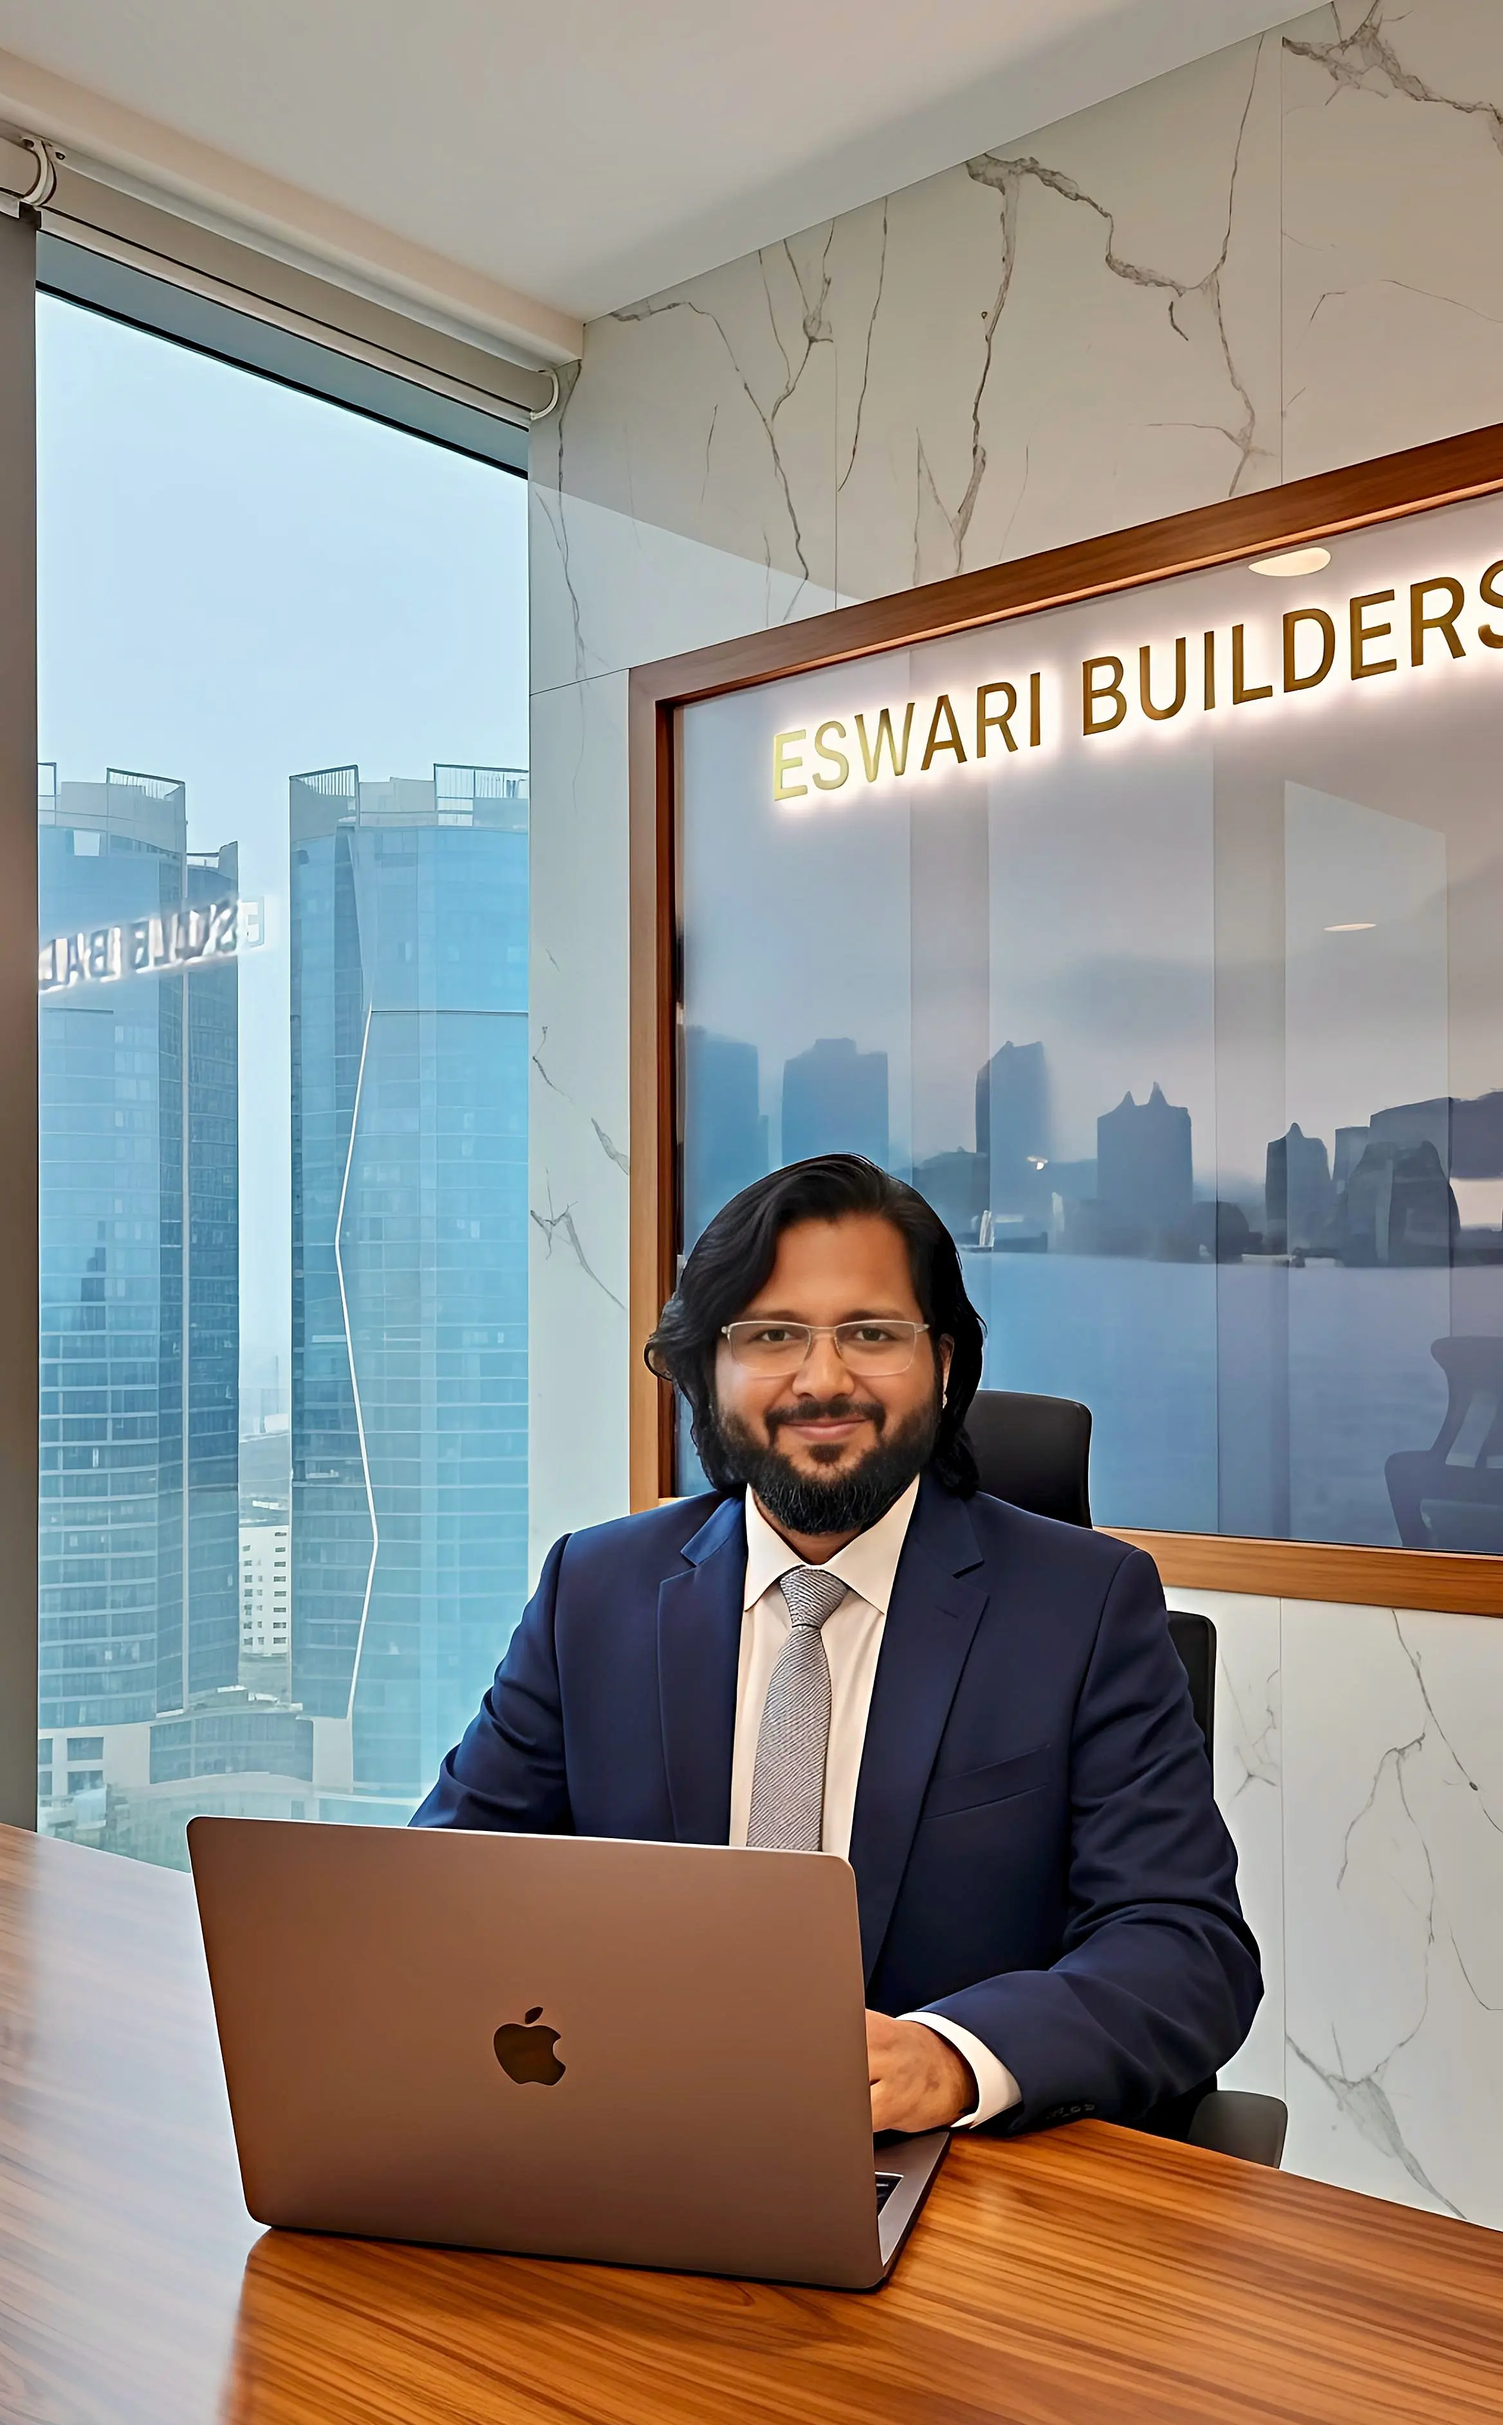
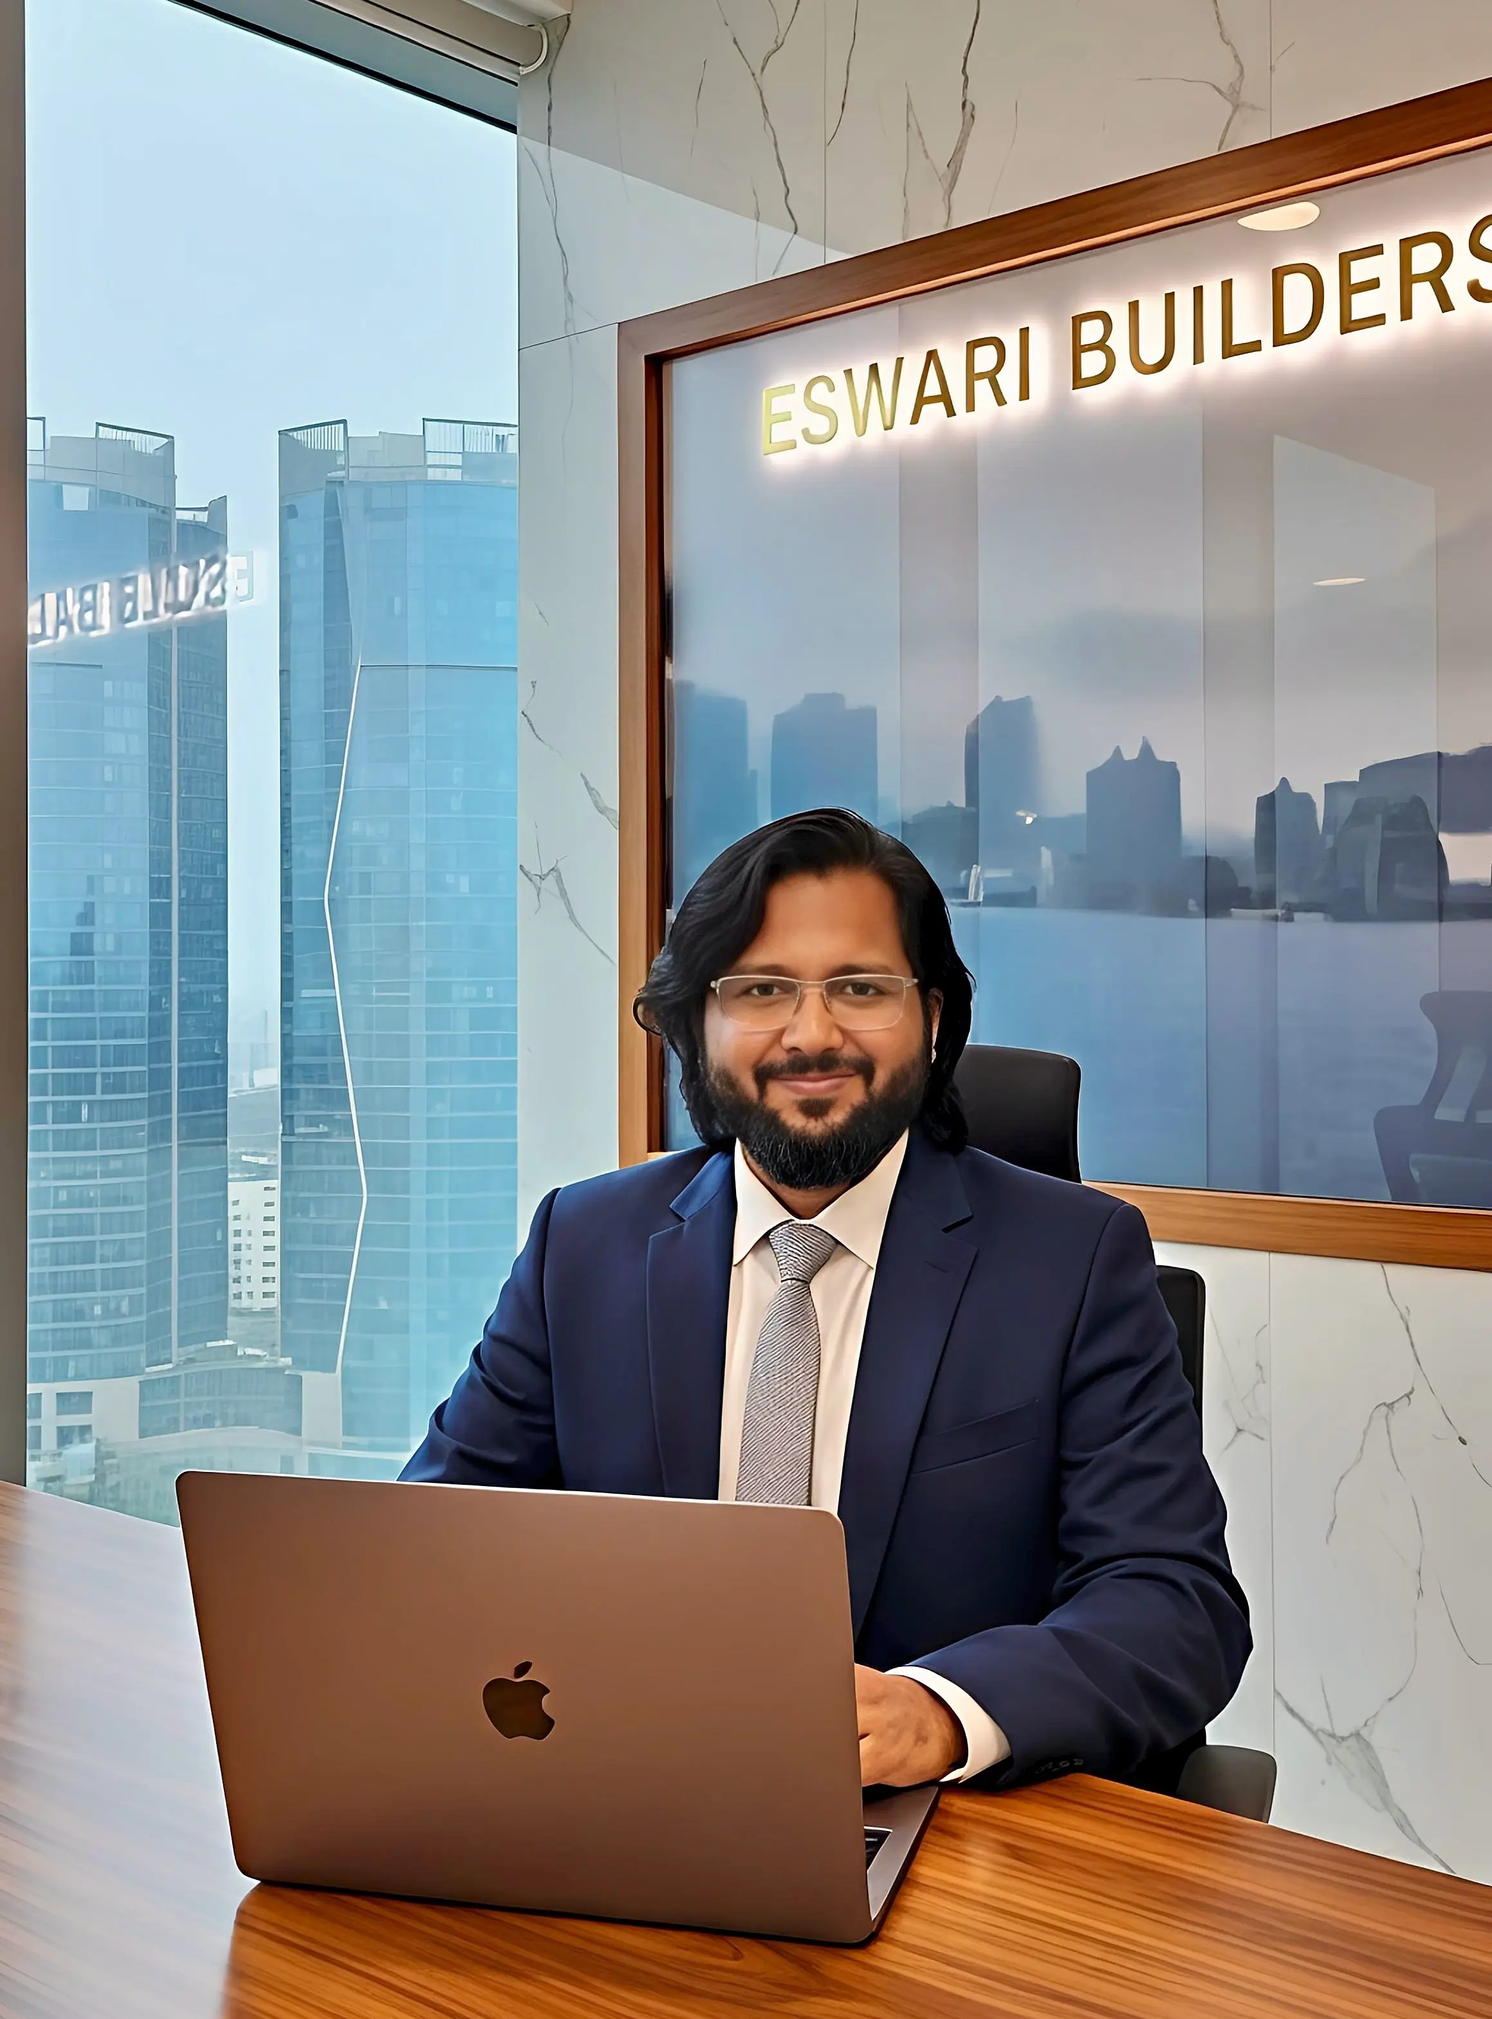
feat: added banking partners and founder image

diff --git a/app/page.tsx b/app/page.tsx
@@ -26,7 +26,8 @@ export default function Home() {
     priceRange: "₹₹",
     address: {
       "@type": "PostalAddress",
-      streetAddress: "112, Kamatchi Amman Kovil St, Heritage Town",
+      streetAddress:
+        "112, First Floor, Kamatchi Amman Koil Street, Heritage Town",
       addressLocality: "Pondicherry",
       addressRegion: "Puducherry",
       postalCode: "605001",
@@ -224,6 +225,156 @@ export default function Home() {
                 </p>
                 <p className="text-[#666] mt-0.5">Experience</p>
               </div>
+            </div>
+          </div>
+        </div>
+
+        {/* Bottom accent */}
+        <div className="absolute bottom-0 left-0 right-0 h-px bg-gradient-to-r from-transparent via-[#c8a97e] to-transparent opacity-40" />
+      </section>
+
+      {/* Banking Partners Section */}
+      <section className="relative bg-[#0a0a0a] py-24 overflow-hidden">
+        {/* Top accent */}
+        <div className="absolute top-0 left-0 right-0 h-px bg-gradient-to-r from-transparent via-[#c8a97e] to-transparent opacity-40" />
+
+        {/* Background text */}
+        <div
+          className="pointer-events-none absolute inset-0 flex items-center justify-center overflow-hidden select-none"
+          aria-hidden
+        >
+          <span
+            className="text-[10vw] font-light text-white/[0.02] leading-none tracking-widest uppercase whitespace-nowrap"
+            style={{ fontFamily: "'Playfair Display', serif" }}
+          >
+            Finance Support
+          </span>
+        </div>
+
+        <div className="relative container mx-auto px-6 max-w-7xl">
+          {/* Heading */}
+          <div className="text-center mb-16">
+            <div className="flex items-center justify-center gap-3 mb-6">
+              <div className="h-px w-10 bg-[#c8a97e]" />
+              <span
+                className="text-[#c8a97e] tracking-[0.25em] text-xs uppercase"
+                style={{ fontFamily: "'DM Sans', sans-serif" }}
+              >
+                Loan Assistance
+              </span>
+              <div className="h-px w-10 bg-[#c8a97e]" />
+            </div>
+
+            <h2
+              className="text-4xl md:text-6xl font-light text-white mb-6 leading-tight"
+              style={{ fontFamily: "'Playfair Display', serif" }}
+            >
+              Our Trusted
+              <span className="italic text-[#c8a97e]"> Banking Partners</span>
+            </h2>
+
+            <p
+              className="text-[#888] text-base md:text-lg max-w-3xl mx-auto leading-relaxed"
+              style={{ fontFamily: "'DM Sans', sans-serif" }}
+            >
+              Building your dream home should not be delayed because of
+              financing. We assist our clients in securing smooth home loan
+              approvals through trusted banking partners and NBFC housing
+              finance providers with complete support throughout the process.
+            </p>
+          </div>
+
+          {/* Bank Grid */}
+          <div className="grid grid-cols-2 md:grid-cols-3 lg:grid-cols-4 gap-6 mb-14">
+            {[
+              {
+                name: "ICICI Bank",
+                subtitle: "Housing Loan",
+                logo: "/banks/icici.webp",
+              },
+              {
+                name: "HDFC Bank",
+                subtitle: "Housing Loan",
+                logo: "/banks/hdfc.webp",
+              },
+              {
+                name: "State Bank of India",
+                subtitle: "Housing Loan",
+                logo: "/banks/sbi.webp",
+              },
+              {
+                name: "Punjab National Bank",
+                subtitle: "Housing Loan",
+                logo: "/banks/pnb.webp",
+              },
+              {
+                name: "IDFC First Bank",
+                subtitle: "Housing Loan",
+                logo: "/banks/idfc.webp",
+              },
+              {
+                name: "IDBI Bank",
+                subtitle: "Housing Loan",
+                logo: "/banks/idbi.webp",
+              },
+              {
+                name: "Canara Bank",
+                subtitle: "Housing Loan",
+                logo: "/banks/canara.webp",
+              },
+              {
+                name: "Indian Bank",
+                subtitle: "Housing Loan",
+                logo: "/banks/indian.webp",
+              },
+            ].map((bank, index) => (
+              <div
+                key={index}
+                className="group bg-white/[0.03] border border-white/10 hover:border-[#c8a97e]/30 transition-all duration-300 rounded-2xl p-6 flex flex-col items-center justify-center text-center min-h-[180px]"
+              >
+                <Image
+                  src={bank.logo}
+                  alt={bank.name}
+                  width={100}
+                  height={50}
+                  className="object-contain h-12 w-auto mb-5 opacity-90 group-hover:opacity-100 transition"
+                />
+                <h3
+                  className="text-white text-sm md:text-base font-medium"
+                  style={{ fontFamily: "'DM Sans', sans-serif" }}
+                >
+                  {bank.name}
+                </h3>
+                <p
+                  className="text-[#888] text-xs mt-2 uppercase tracking-wider"
+                  style={{ fontFamily: "'DM Sans', sans-serif" }}
+                >
+                  {bank.subtitle}
+                </p>
+              </div>
+            ))}
+          </div>
+
+          {/* Bottom Support Box */}
+          <div className="max-w-5xl mx-auto">
+            <div className="border border-[#c8a97e]/20 bg-gradient-to-r from-white/[0.03] to-white/[0.01] rounded-3xl p-8 md:p-12 text-center">
+              <h3
+                className="text-2xl md:text-3xl text-white font-light mb-5"
+                style={{ fontFamily: "'Playfair Display', serif" }}
+              >
+                Need Flexible Financing Options?
+              </h3>
+
+              <p
+                className="text-[#888] text-base md:text-lg leading-relaxed max-w-3xl mx-auto"
+                style={{ fontFamily: "'DM Sans', sans-serif" }}
+              >
+                Apart from traditional bank housing loans, we also support
+                clients in getting approvals through trusted NBFC housing
+                finance partners. Whether you are a salaried professional,
+                self-employed business owner, or first-time home buyer, our team
+                helps simplify the loan process.
+              </p>
             </div>
           </div>
         </div>

diff --git a/app/contact/ContactPage.tsx b/app/contact/ContactPage.tsx
@@ -204,8 +204,8 @@ export default function ContactPage() {
                   <div>
                     <h3 className="font-bold mb-1">Address</h3>
                     <p className="text-gray-700">
-                      112, Kamatchi Amman Kovil St, <br />
-                      Heritage Town, Puducherry, 605001
+                      112,First Floor, Kamatchi Amman Koil Street, <br />
+                      Heritage Town, Pondicherry, 605001
                       <br />
                       India
                     </p>

diff --git a/components/footer.tsx b/components/footer.tsx
@@ -263,7 +263,7 @@ export default function Footer() {
                 {
                   label: "Address",
                   value:
-                    "112, Kamatchi Amman Kovil St,\nHeritage Town, Puducherry 605001",
+                    "112, First Floor, Kamatchi Amman Kovil St,\nHeritage Town, Pondicherry, 605001",
                 },
                 { label: "Phone", value: "+91 90920 97190\n+91 87784 02742" },
                 { label: "Email", value: "eswaribuilders2018@gmail.com" },

diff --git a/app/about/AboutPageClient.tsx b/app/about/AboutPageClient.tsx
@@ -295,7 +295,7 @@ export default function AboutPage() {
                 transition={{ duration: 0.5, delay: index * 0.1 }}
                 className="w-full sm:w-1/2 lg:w-1/4 bg-white rounded-2xl p-6 shadow-sm"
               >
-                <div className="relative h-[300px] w-full mb-4">
+                <div className="relative h-[400px] md:h-[300px] w-full mb-4">
                   <Image
                     src={member.image}
                     alt={member.alt}

diff --git a/components/contactForm.tsx b/components/contactForm.tsx
@@ -429,8 +429,8 @@ export default function ContactForm() {
                   icon: MapPin,
                   label: "Address",
                   lines: [
-                    "112, Kamatchi Amman Kovil St,",
-                    "Heritage Town, Puducherry 605001",
+                    "112, First Floor, Kamatchi Amman Kovil St,",
+                    "Heritage Town, Pondicherry, 605001",
                     "India",
                   ],
                 },
